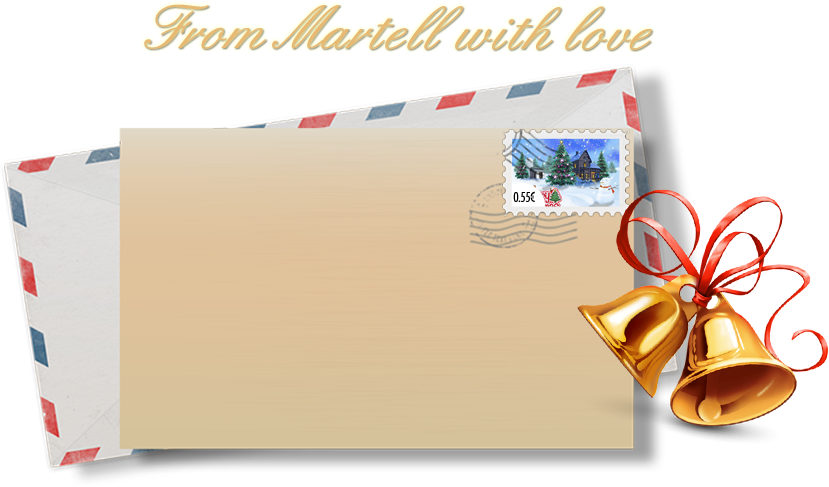
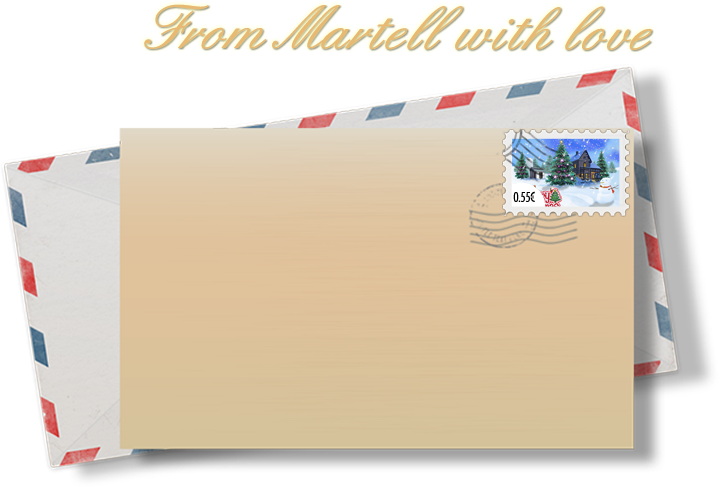
fixing all layout
fixing all layout

Changed region(s): [[0.153, 0.0, 1.0, 0.9548], [0.0, 0.2464, 0.2142, 0.9856]]

diff --git a/source/layout/css/responsive.css b/source/layout/css/responsive.css
@@ -1,110 +1,76 @@
 @media only screen and (max-width: 1280px) {
 .bg_content_1 {
-	width:1305px;
+	/*width:1305px;*/
 	background-size:1822px 732px;
-	background-position-x:-100px;
+	background-position:-100px 0;
 }
 .bg_content_2 {
-	width:1295px;
+	/*width:1295px;*/
 	background-size:1357px 175px;
-	background-position-x: 10%;
+	background-position: 10% 0;
 }
 .bg_content_3 {
-	width:1290px;
-	background-size:829px 487px;
+	/*width:1290px;*/
+	background-size:719px 487px;
 	background-position:top center;
 }
 .bg_content_4 {
-	width:1285px;
+	/*width:1285px;*/
 	background-size:1674px 806px;
-	background-position-x:77%;
+	background-position:77% 0;
 }
-.wrapper {
-	position:relative;
-	top:0;
-	left:0;
-	width:1280px;
-	height:100%;
-	overflow:hidden;
-}
-.parallax-viewport {
-	width: 1280px;
-	max-width: 1280px;
-}
-
 }
 
 @media only screen and (max-width: 1024px) {
 .bg_content_1 {
-	width:1049px;
+	/*width:1049px;*/
 	background-size:1822px 732px;
-	background-position-x:-100px;
+	background-position:-100px 0;
 }
 .bg_content_2 {
-	width:1039px;
+	/*width:1039px;*/
 	background-size:1357px 175px;
-	background-position-x: 10%;
+	background-position: 10% 0;
 }
 .bg_content_3 {
-	width:1034px;
-	background-size:829px 487px;
+	/*width:1034px;*/
+	background-size:719px 487px;
 	background-position:top center;
 }
 .bg_content_4 {
-	width:1029px;
+	/*width:1029px;*/
 	background-size:1674px 806px;
-	background-position-x:77%;
+	background-position:77% 0;
 }
-.wrapper {
-	position:relative;
-	top:0;
-	left:0;
-	width:1024px;
-	height:100%;
-	overflow:hidden;
+/*.bottle{
+	left:-390px;
+	}*/
 }
-.parallax-viewport {
-	width: 1024px;
-	max-width: 1024px;
-}
-
-.bottle{
-	left:-100px;
+@media only screen and (max-width: 960px) {
+	.bottle{
+	left:-425px;
 	}
-}
-
+	}
 @media only screen and (max-width: 740px) {
 .bg_content_1 {
 	width:765px;
 	background-size:1822px 732px;
-	background-position-x:-100px;
+	background-position:-100px 0;
 }
 .bg_content_2 {
 	width:755px;
 	background-size:1357px 175px;
-	background-position-x: 10%;
+	background-position: 10% 0;
 }
 .bg_content_3 {
 	width:750px;
-	background-size:829px 487px;
+	background-size:719px 487px;
 	background-position:top center;
 }
 .bg_content_4 {
 	width:745px;
 	background-size:1674px 806px;
-	background-position-x:77%;
-}
-.wrapper {
-	position:relative;
-	top:0;
-	left:0;
-	width:740px;
-	height:100%;
-	overflow:hidden;
-}
-.parallax-viewport {
-	width: 740px;
-	max-width: 740px;
+	background-position:77% 0;
 }
 }
 

diff --git a/source/layout/css/style.css b/source/layout/css/style.css
@@ -59,9 +59,8 @@ nav ul li {
 .parallax-viewport {
 	width: 100%;
 	max-width: 100%;
-	height: 800px;
+	height: 100%;
 	min-height:100%;
-	background-color: #FF0;
 }
 .parallax-viewport {
 	position: relative;     /* relative, absolute, fixed */
@@ -82,34 +81,30 @@ nav ul li {
 	left:0;
 	background-image:url(../images/common/bg_content_1.jpg);
 	background-size:110% 732px;
-	background-position-x:-100px;
 	z-index:0;
 }
 .bg_content_2 {
-	width:107%;
+	width:105%;
 	top:105px;
 	left:0;
 	background-image:url(../images/common/bg_content_2.png);
 	background-size:1357px 175px;
-	background-position-x: 10%;
-	z-index:1;
+	background-position: 10% 0;
+	z-index:3;
 }
 .bg_content_3 {
-	width:105%;
-	top:125px;
+	width:103%;
+	top:0;
 	left:0;
-	background-image:url(../images/common/bg_content_3.png);
-	background-size:829px 487px;
 	z-index:2;
-	background-position:top center;
 }
 .bg_content_4 {
-	width:103%;
+	width:101%;
 	top:120px;
 	left:0;
 	background-image:url(../images/common/bg_content_4.png);
 	background-size:1674px 806px;
-	background-position-x:77%;
+	background-position:70% 0;
 	z-index:12;
 }
 .logo {
@@ -121,24 +116,50 @@ nav ul li {
 	background-repeat:no-repeat;
 	background-size:131px 63px;
 }
+.bell{
+	position:relative;
+	top:215px;
+	left:295px;
+	width:252px;
+	height:256px;
+	background-image:url(../images/common/bell.png);
+	background-repeat:no-repeat;
+	background-size:252px 256px;
+	margin:0 auto;
+	}
 .bottle {
 	position:relative;
 	top:25px;
-	left:-285px;
-	width:481px;
+	left:-392px;
+	width:266px;
 	height:756px;
-	background-image:url(../images/common/bottle.png);
+	background-image:url(../images/common/bottle_ori.png);
 	background-repeat:no-repeat;
-	background-size:481px 756px;
+	background-size:266px 756px;
 	z-index:11;
 	margin:0 auto;
 }
+.ball_chir{
+	position:absolute;
+	bottom: -45px;;
+	left:125px;
+	width:361px;
+	height:272px;
+	background-image:url(../images/common/ball_chir.png);
+	background-repeat:no-repeat;
+	background-size:361px 272px;
+	z-index:11;
+	}
 .wrapp_content {
 	position: relative;
-	top: 150px;
-	left: -65px;
+	top: 120px;
+	left: -50px;
 	width: 435px;
-	height:300px;
+	height: 340px;
+	padding:147px 154px 0 130px;
+	background-image:url(../images/common/bg_content_3.png);
+	background-size:719px 487px;
+	background-repeat:no-repeat;
 	color:#362f2d;
 	margin:0 auto;
 }

diff --git a/source/layout/css/style_creative.css b/source/layout/css/style_creative.css
@@ -1,6 +1,6 @@
 .bg_content_1 {
 	background-image:url(../images/common/bg_content_creative_1.jpg);
-	background-position-x:-100px;
+	background-position:-100px 0;
 }
 .bg_content_3 {
 	background-image:none;
@@ -9,7 +9,7 @@
 .bg_content_4 {
 	background-image:url(../images/common/bg_content_creative_4.png);
 	background-size:1674px 806px;
-	background-position-x:100%;
+	background-position:100% 0;
 }
 .bottle {
 	position:relative;
@@ -26,11 +26,12 @@
 .wrapp_content {
 	position: relative;
 	text-align:center;
-	top: -5px;
+	top: -30px;
 	left: 20px;
 	width: 500px;
 	height:auto;
 	color:#fff;
+	background-image:none;
 	margin:0 auto;
 }
 .title_creative{
@@ -52,8 +53,8 @@
 	}
 .arrow_creative{
 	position:absolute;
-	top:230px;
-	right:-70px;
+	top:375px;
+	right:60px;
 	width:33px;
 	height:75px;
 	background-image:url(../images/common/arrow_creative.png);

diff --git a/source/layout/home_page.html b/source/layout/home_page.html
@@ -30,7 +30,7 @@
 <section style="height:100%">
       <article class="wrapper parallax-viewport" id="parallax">
     <div class="bg_content_1 parallax-layer"></div>
-    <div class="bg_content_2 parallax-layer"></div>
+    <div class="bg_content_2 parallax-layer"><div class="bell"></div></div>
    <div class="bg_content_3 parallax-layer">
           <div class="wrapp_content">
         <h1>Martell V.S.O.P</h1>
@@ -43,7 +43,9 @@
             Nhập email hoặc số điện thoại của bạn ngay để trở thành một trong những người đầu tiên kiến tạo kiệt tác Martell V.S.O.P tại Việt Nam. </span> </div>
         </div>
      <div class="bg_content_4 parallax-layer"></div>
-    <div class="bottle"></div>
+    <div class="bottle">
+    	<div class="ball_chir"></div>
+    </div>
   </article>
     </section>
 <footer> </footer>
